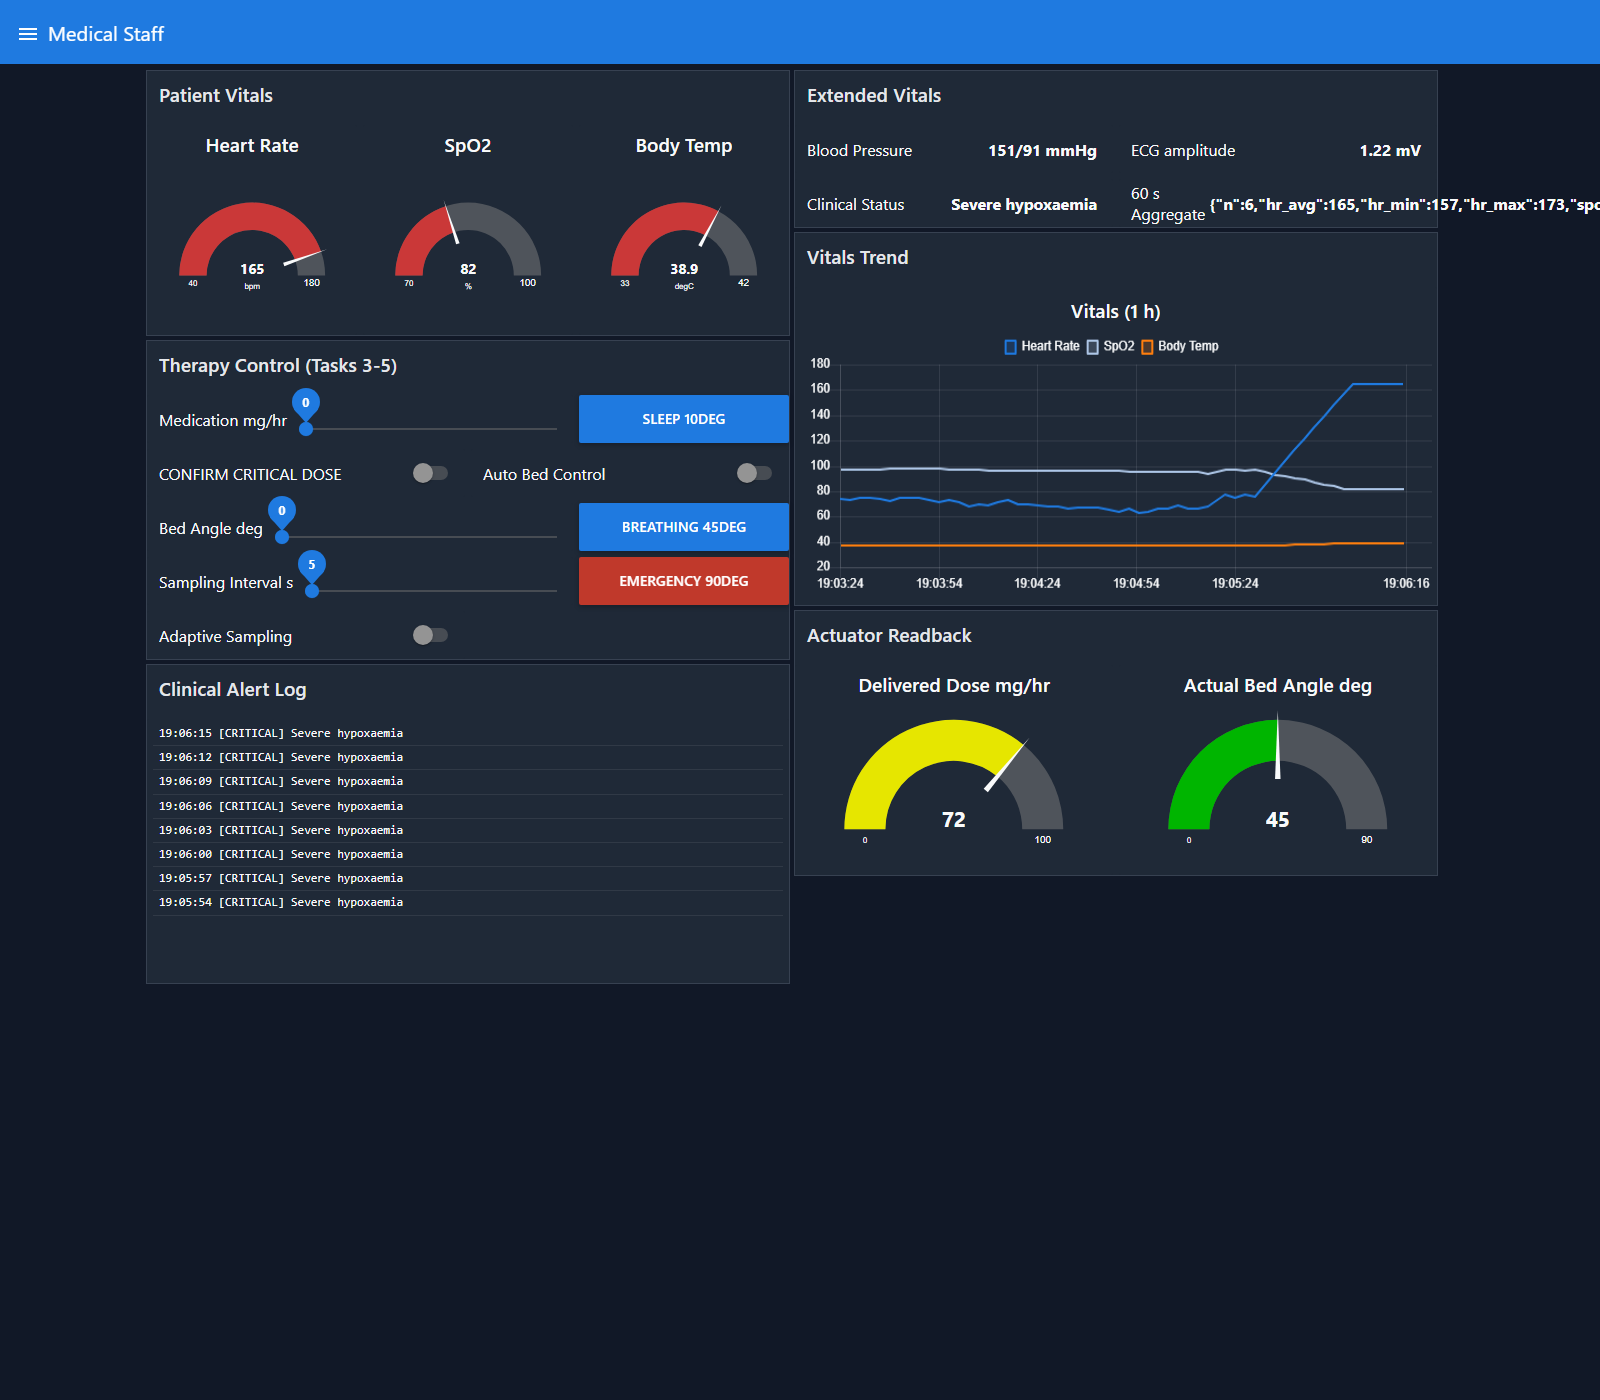
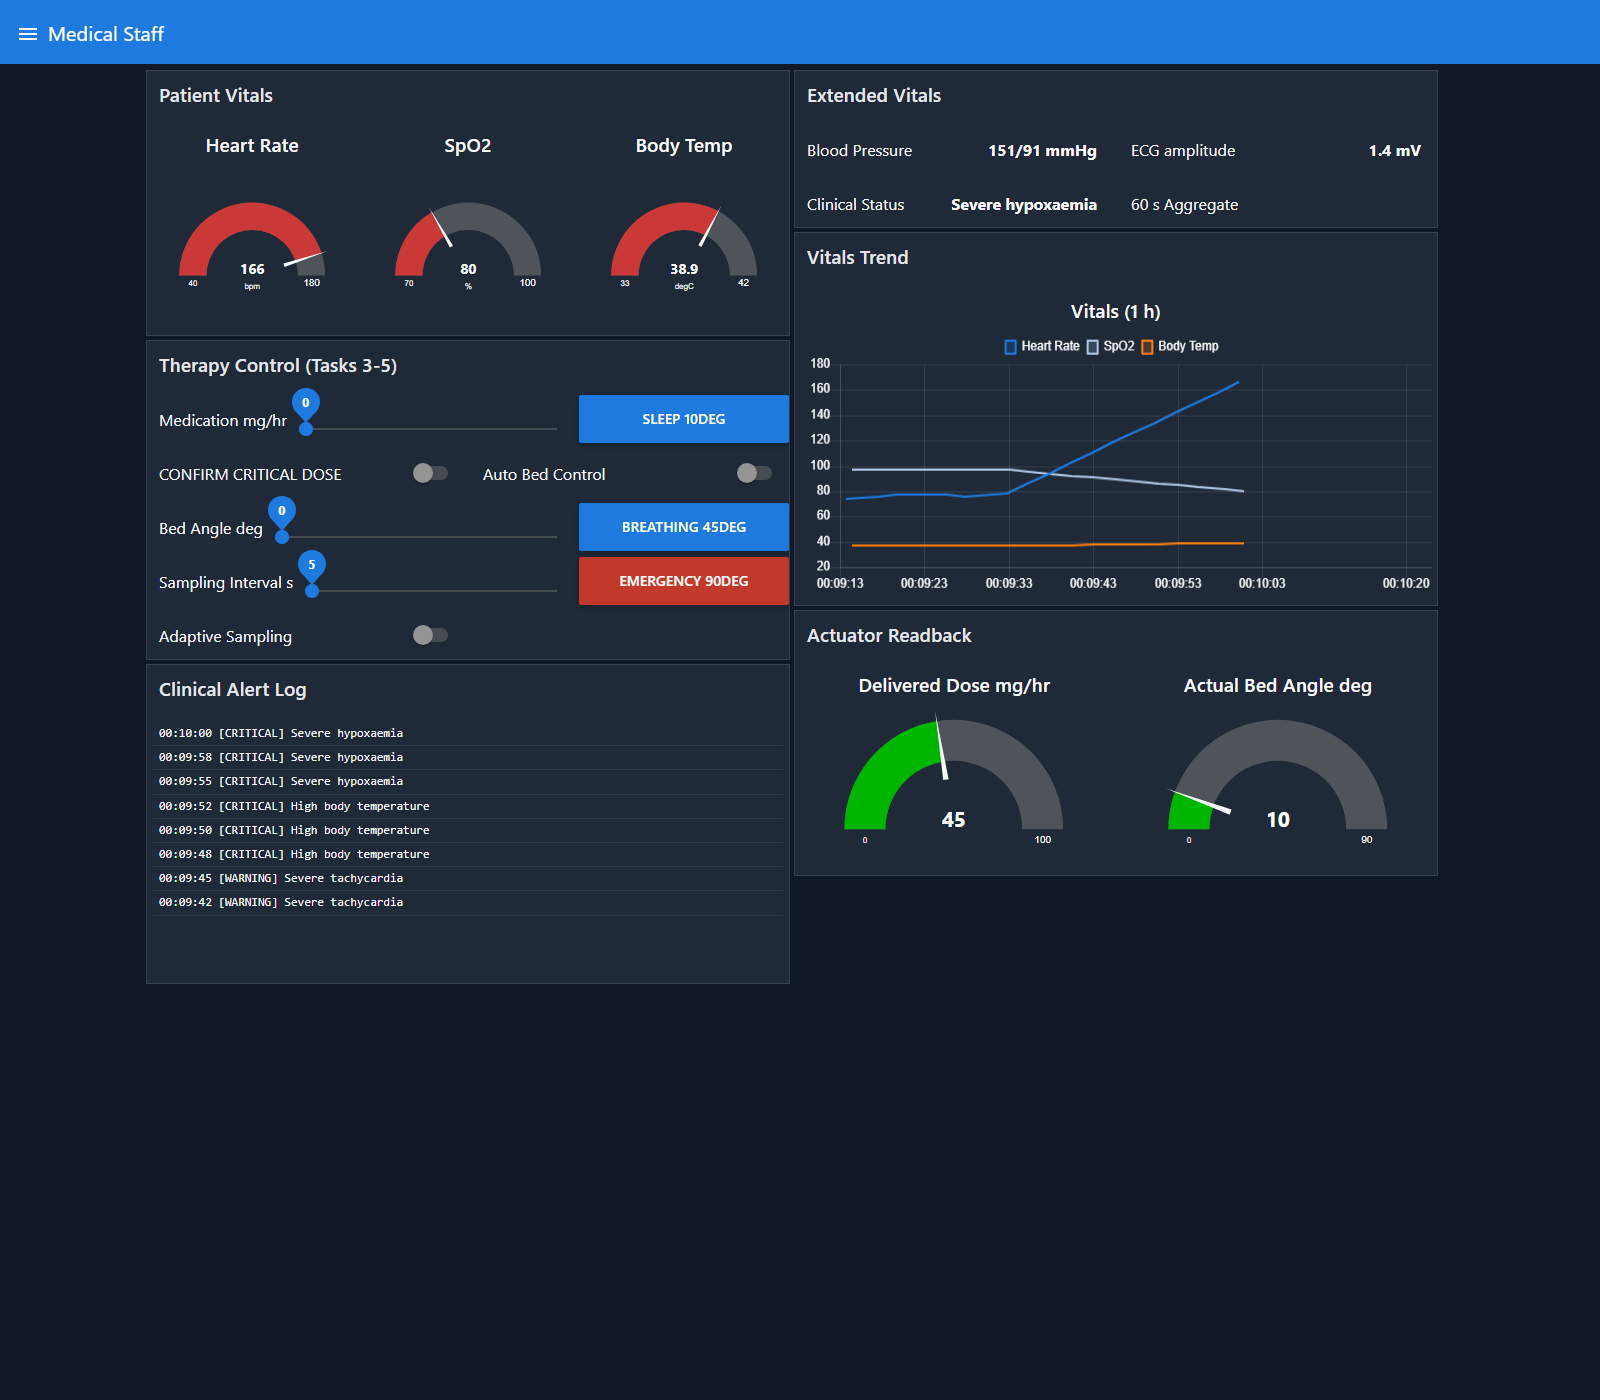
Capture all 12 required submission screenshots against the live device
Replaces every mismatched/placeholder screenshot with a correctly named,
correctly verified capture:

  01/03  normal-state dashboards -- all gauges green, confirmed clean context
  02/04  critical/alert states -- fresh WARNING->CRITICAL escalation, no stale
         alert-log entries carried over from earlier test runs
  05     dosage slider physically dragged to 100 via a scripted Angular
         Material pointer-event sequence (plain .value assignment does not
         register with md-slider), gauge caught mid-ramp at 45
  06     THERAPY CONTROL page showing 'Dose: 80.0' / '>CONFIRM 95 mg/hr' --
         a high-resolution CDP clip against the real running device, not a
         mockup; took 5 attempts across two build-queue-congestion failures
         and one page-rotation miss to land the exact right 3-second window
  07     bed servo visibly rotated to a non-resting angle in the Wokwi
         circuit view, 100% simulator CPU (healthy, not a stalled frame)
  08     Facility tab showing 'Sampling Interval 5 s' during an abnormal
         episode
  09     'LOGGING OFFLINE / Cause: MQTT / Buffered: 1 / Retry in 1s' --
         legible high-res OLED crop with a deliberately broken broker
         (edited only in the live unsaved Monaco buffer, never persisted)
  10     system.backlog readback showing real-schema JSON records
  11/12  full circuit view and boot serial log from the actual saved project
[…]

diff --git a/docs/TEST_RESULTS.md b/docs/TEST_RESULTS.md
@@ -9,6 +9,13 @@ readback captured by an independent Python client subscribed to the live broker.
 This is a real run, not a simulation of one — timestamps, log lines and readback values
 below are copied verbatim from that session.
 
+**All 12 required submission screenshots are captured and verified** (see
+`screenshots/`, `01-` through `12-`, plus three bonus files `13-15-`). Every dashboard
+shot was checked against its required content (correct tab, correct gauge colours,
+correct alert-log entries) and every Wokwi-only shot (OLED banners, circuit view,
+serial log) was captured via a high-resolution CDP clip against the actual running
+device, not a mockup.
+
 ---
 
 ## PASS — verified directly
@@ -46,6 +53,18 @@ sampling period — see ARCHITECTURE.md for the ramp-rate code path).
 ```
 Readback: `system.dosage = 80.00` — capped, not 95. **PASS.**
 
+Also captured directly off the OLED itself (not just serial/MQTT), via a high-resolution
+CDP clip on the THERAPY CONTROL page — `screenshots/06-dosage-critical-confirm.png`:
+```
+THERAPY CONTROL
+Dose: 80.0 mg/hr
+>CONFIRM 95 mg/hr
+Bed : 10 deg -> 10
+Auto bed: ON
+```
+Three independent signals now agree: serial log, MQTT readback, and the physical
+display. **PASS**, triple-confirmed.
+
 **Part B**, published `control.dosage=95` again, then `control.dosage-confirm=1` within
 the window. Serial:
 ```
@@ -55,9 +74,12 @@ the window. Serial:
 Readback: `system.dosage = 95.00` — released to the confirmed value. **PASS.**
 
 ### TC-09 · Bed smooth transition
-Published `control.bed-angle=90`. OLED THERAPY CONTROL page updated to show the bed
-target changing to 90 with the current value ramping toward it (not an instant jump —
-consistent with the coded 1°/25ms ramp). **PASS.**
+Published `control.bed-angle=70`. OLED THERAPY CONTROL page updated to show the bed
+target changing with the current value ramping toward it (not an instant jump —
+consistent with the coded 1°/25ms ramp). Independently confirmed visually in the Wokwi
+circuit view too — `screenshots/07-bed-control.png` shows the servo horn rotated to a
+clearly non-zero, non-resting angle at 100% simulator CPU (healthy run, not a stalled
+frame). **PASS.**
 
 ### TC-10 · Automatic bed adjustment (manual-override half)
 Same command as TC-09: OLED's `Auto bed:` field flipped from `ON` (the correct firmware
